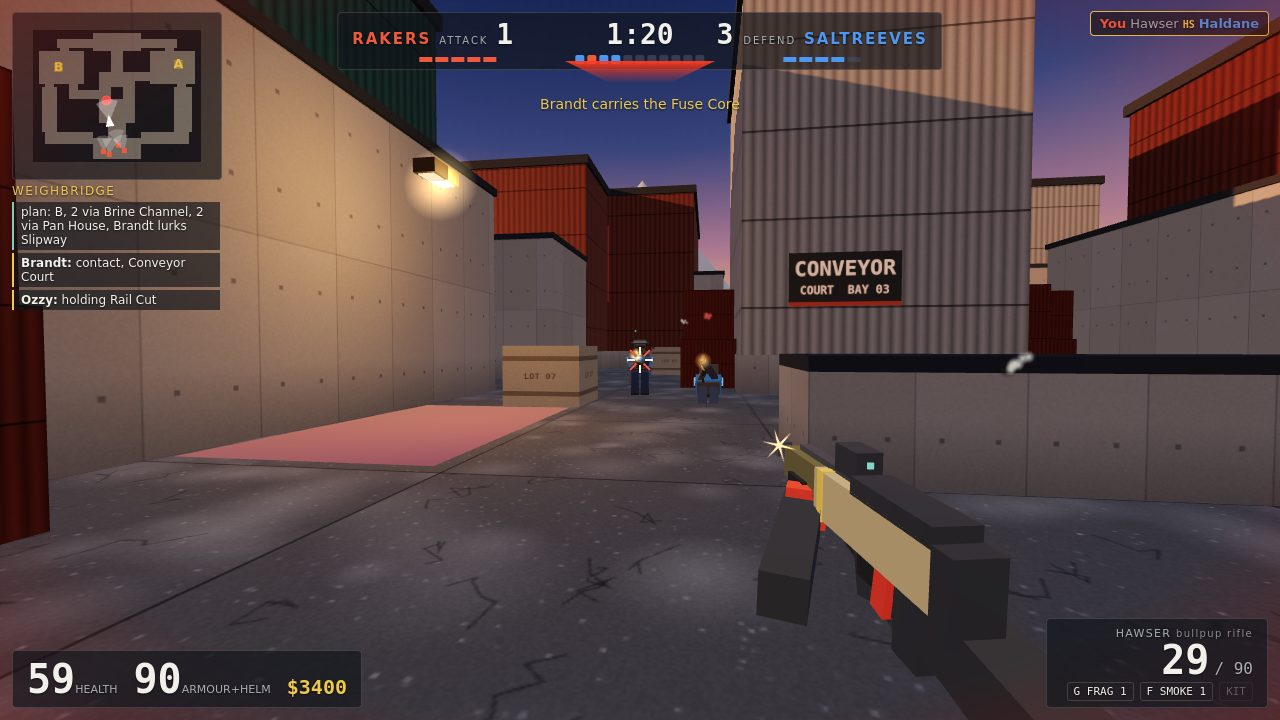
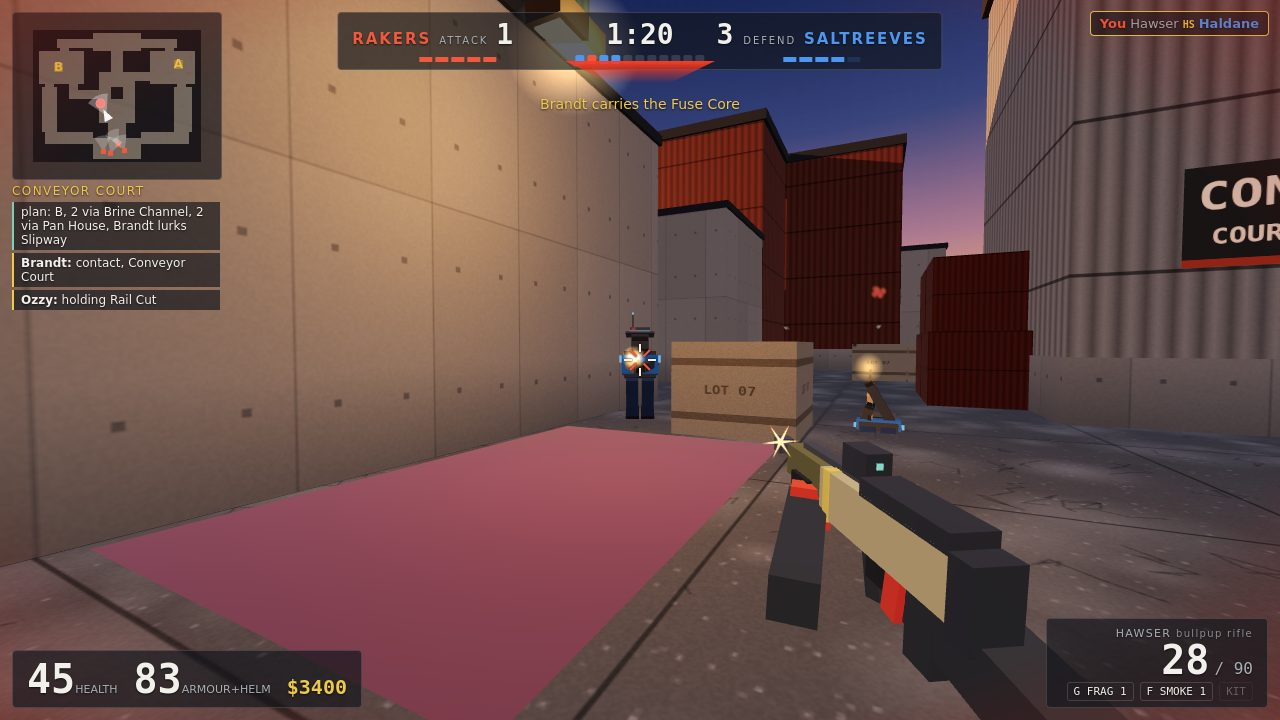
Screenshots: a closer target, a teammate arming in view, the disarm moved to site A
- Shot 1: the second Saltreeve trades with the player at about 7 m against the lit west wall
  (his muzzle flash, our hit marker), after the headshot; the sign is large on the right.
- Shot 3: a teammate arms the Fuse Core on the B pad (ARMING FUSE CORE n% CARRICK) while the
  player covers from 4 m behind; the B letter is now a corner of the frame.
- Shot 4: the disarm is on site A, crouched over the core at the bottom of the frame, looking up
  the pad to the deck; four distinct places across the set. Deck grating a step lighter.
Fresh screenshots.

diff --git a/tools/stage.js b/tools/stage.js
@@ -12,32 +12,32 @@ import { yawTo } from './src/sim/util.js';
 // side: the player's side (0 attack, 1 defend); phase: 'freeze' stages in buy time, else live with clock < clock.
 // fire: opponents already engaging the player [who, reaction s]. script(i, s): per tick, s = { ctx, p, who, aim }.
 const SCENES = {
-  // Conveyor Court: crouched behind the low wall, the player drops one Saltreeve with a headshot while a
-  // second, beside the crate at the brine pan, fires back.
-  1: { side: 0, round: 5, clock: 80, ticks: 34, core: 'mate',
-    cast: [['p', 25, 30, 23, 23, 'hawser'], ['f0', 25, 24, 25, 30, 'hawser'], ['f1', 24, 23, 25, 30, 'cleat']],
-    fire: [['f1', 0.3]],
+  // Conveyor Court: crouched by the low wall, the player drops one Saltreeve with a headshot, then trades
+  // with a second one 7 m out against the lit west wall (his muzzle flash, our hit marker).
+  1: { side: 0, round: 5, clock: 80, ticks: 36, core: 'mate',
+    cast: [['p', 24, 28, 22, 24, 'hawser'], ['f0', 24, 24, 24, 28, 'hawser'], ['f1', 22, 24, 24, 28, 'cleat']],
+    fire: [['f1', 0.35, -0.05]], // his first shots go low: the player survives the trade
     script(i, s) {
       s.p.cmd.crouch = true;
-      if (i === 16) s.aim('f0', 'head');
-      s.p.cmd.fire = i === 17;
-      if (i >= 21) s.aim('f1', 'chest');
+      if (i === 14) s.aim('f0', 'head');
+      if (i >= 20) s.aim('f1', 'chest');
+      s.p.cmd.fire = i === 15 || i === 31;
     } },
   // Buy time in the defenders' yard, the low sun across the cladding, teammates armed differently.
   2: { side: 1, round: 7, phase: 'freeze', ticks: 12, buy: true, money: 5200, bare: true,
     cast: [['p', 25, 1, 27, 8], ['m0', 25, 5, 26, 9, 'skiff'], ['m1', 29, 5, 28, 9, 'bollard'], ['m2', 27, 7, 27, 12, 'hawser']],
     script(i, s) { s.aim(null, 0.05, 27.5, 8); } },
-  // Arming on B: a teammate's smoke closes Boiler Gate 12 m out, a Saltreeve works round its edge, a teammate
-  // already holds Pan Door for the post-plant.
-  3: { side: 0, round: 2, clock: 92, core: 'carry', ticks: 110, smoke: [10.5, 6.6],
-    cast: [['p', 8, 14, 10, 7, 'hawser'], ['m0', 12, 12, 13, 19, 'hawser'], ['f0', 13, 7, 8, 13, 'hawser'], ['m1', 4, 12, 5, 19, 'skiff']],
+  // Arming on B: a teammate arms the Fuse Core on the pad while the player covers from behind; the smoke
+  // closes Boiler Gate 12 m out, a Saltreeve works round its edge, a teammate holds Pan Door.
+  3: { side: 0, round: 2, clock: 92, core: 'm0', ticks: 40, smoke: [10.5, 6.6],
+    cast: [['p', 7, 16, 9, 8, 'hawser'], ['m0', 8, 12, 12, 12, 'hawser'], ['m1', 12, 13, 13, 19, 'skiff'], ['f0', 13, 7, 8, 13, 'hawser']],
     fire: [['f0', 4]], // he has the player in his sights but will not fire inside the scene
-    script(i, s) { s.p.cmd.use = true; s.aim(null, -0.12, 10.6, 7); } },
-  // A retake won by the disarm, seen from the player's eyes: the Spanner kit halves the work, the core's
-  // bands turn teal, the banner names the disarm; the match goes on.
-  4: { side: 1, round: 6, clock: 70, core: 'armed', ticks: 220, end: 0.35, dead: ['f0', 'f1'],
-    cast: [['p', 8, 13, 9, 9, 'hawser'], ['m0', 12, 12, 10, 6, 'hawser'], ['m1', 5, 9, 10, 6, 'skiff'], ['f0', 10, 10, 8, 13, 'hawser'], ['f1', 3, 8, 8, 13, 'skiff']],
-    script(i, s) { s.p.cmd.use = true; s.aim(null, -0.26, 9.5, 9); } },
+    script(i, s) { s.aim(null, -0.08, 9, 8); } },
+  // A retake of A won by the disarm, crouched over the core with the kit, looking up the pad to the deck
+  // and Tank Gate: the window turns teal, the banner names the disarm; the match goes on.
+  4: { side: 1, round: 6, clock: 70, core: 'armed', site: 'A', ticks: 220, end: 0.35, dead: ['f0', 'f1'],
+    cast: [['p', 48, 13, 46, 7, 'hawser'], ['m0', 45, 12, 43, 7, 'hawser'], ['m1', 51, 10, 46, 6, 'skiff'], ['f0', 46, 9, 48, 13, 'hawser'], ['f1', 40, 16, 48, 13, 'skiff']],
+    script(i, s) { s.p.cmd.use = s.p.cmd.crouch = true; s.aim(null, -0.2, 46, 7); } },
 };
 
 function run(ctx, n, script, drawn = 3) { // n ticks; only the last `drawn` are rendered (effects in flight)
@@ -82,11 +82,15 @@ function stage(ctx, sc) {
   p.money = Math.max(p.money, sc.money ?? 3150);
   p.hp = sc.hp ?? 100;
   if (sc.core === 'carry' || sc.core === 'mate') Object.assign(state.core, { state: 'carried', carrier: sc.core === 'mate' ? mates[3].id : p.id });
-  if (sc.core === 'armed') Object.assign(state.core, { state: 'planted', site: 'B', fuse: 25, carrier: -1, x: p.pos.x + 0.3, y: 0, z: p.pos.z - 1.45 });
+  if (sc.core === 'm0') Object.assign(state.core, { state: 'carried', carrier: who('m0').id, worker: who('m0').id, progress: 0.62 }); // mid-arm
+  if (sc.core === 'armed') { // on the ground in front of the player, within disarm reach
+    Object.assign(state.core, { state: 'planted', site: sc.site ?? 'B', fuse: 25, carrier: -1, y: 0 });
+    state.core.x = p.pos.x - Math.sin(p.yaw) * 1.5; state.core.z = p.pos.z - Math.cos(p.yaw) * 1.5;
+  }
   state.round.planted = sc.core === 'armed';
   if (sc.smoke) Object.assign(state.smokes[0], { live: true, x: sc.smoke[0] * S, y: 0, z: sc.smoke[1] * S, age: 2 });
   for (const k of sc.dead ?? []) Object.assign(who(k), { alive: false, hp: 0, diedAt: -99 }); // bodies of an earlier fight
-  for (const [k, react] of sc.fire ?? []) Object.assign(who(k).brain, { target: p.id, reactTimer: react, errYaw: 0.02, errPitch: 0.01, aimHead: false, crouchSpray: false, lastSeenId: p.id, lastSeenTime: 1e9 });
+  for (const [k, react, low = 0.01] of sc.fire ?? []) Object.assign(who(k).brain, { target: p.id, reactTimer: react, errYaw: 0.02, errPitch: low, aimHead: false, crouchSpray: false, lastSeenId: p.id, lastSeenTime: 1e9 });
   // Look at an actor's head or chest, or (k null) at pitch `part` toward cell (c, r).
   const aim = (k, part, c, r) => {
     const ey = p.pos.y + eyeOf(p);

diff --git a/game/src/render/textures.js b/game/src/render/textures.js
@@ -72,7 +72,7 @@ export function createTextures() {
     clad: paint(256, 23, '#e9eceb', cladding, 8),
     crate: paint(128, 41, '#b3a88f', crate, 14),
     ground: paint(512, 61, PALETTE.ground, ground, 10),
-    grating: paint(128, 71, '#3e464b', grating, 12),
+    grating: paint(128, 71, '#6a706c', grating, 12),
     hazard: paint(128, 1, PALETTE.paint, hazard),
     gravel: paint(64, 13, '#a19c92', () => {}, 70),
   };
